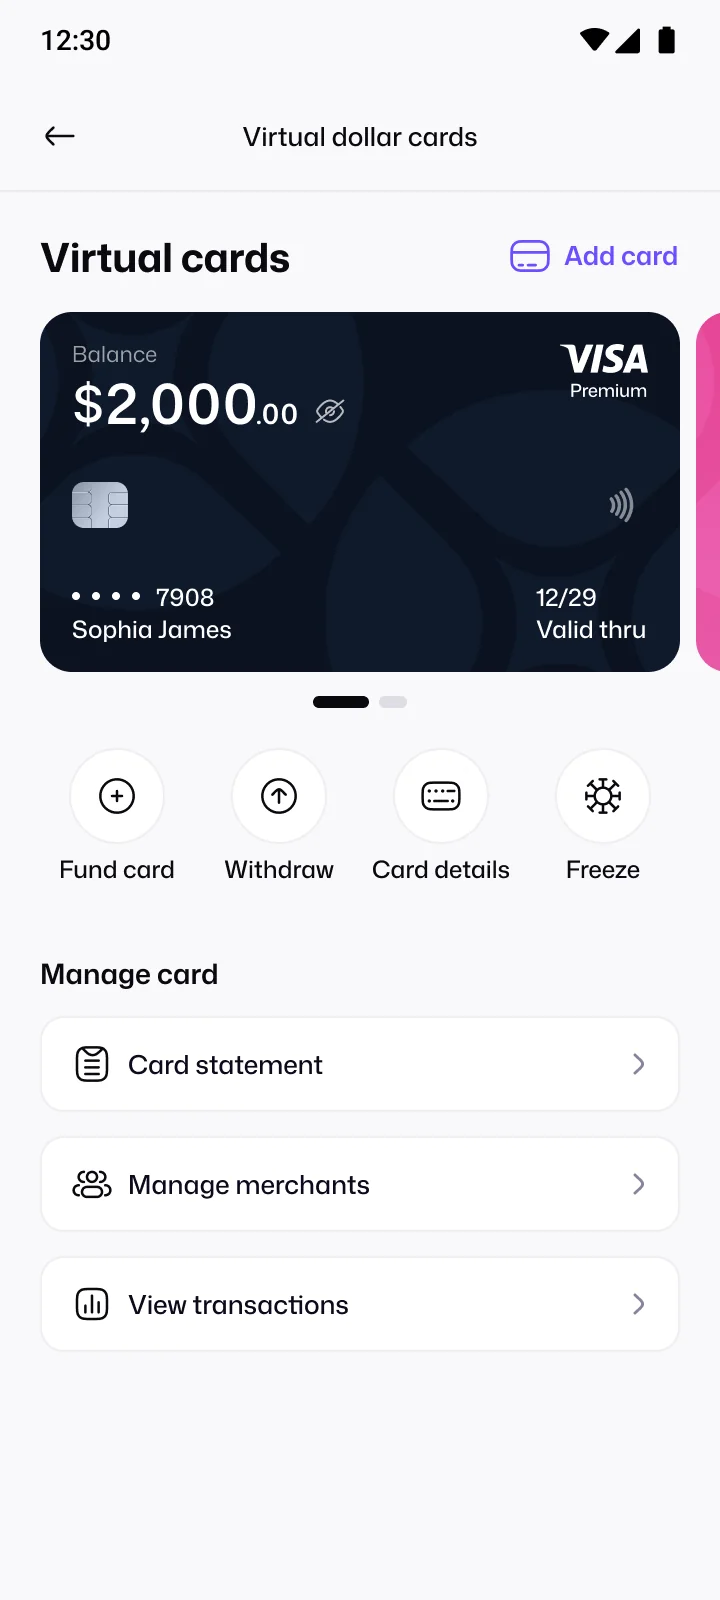
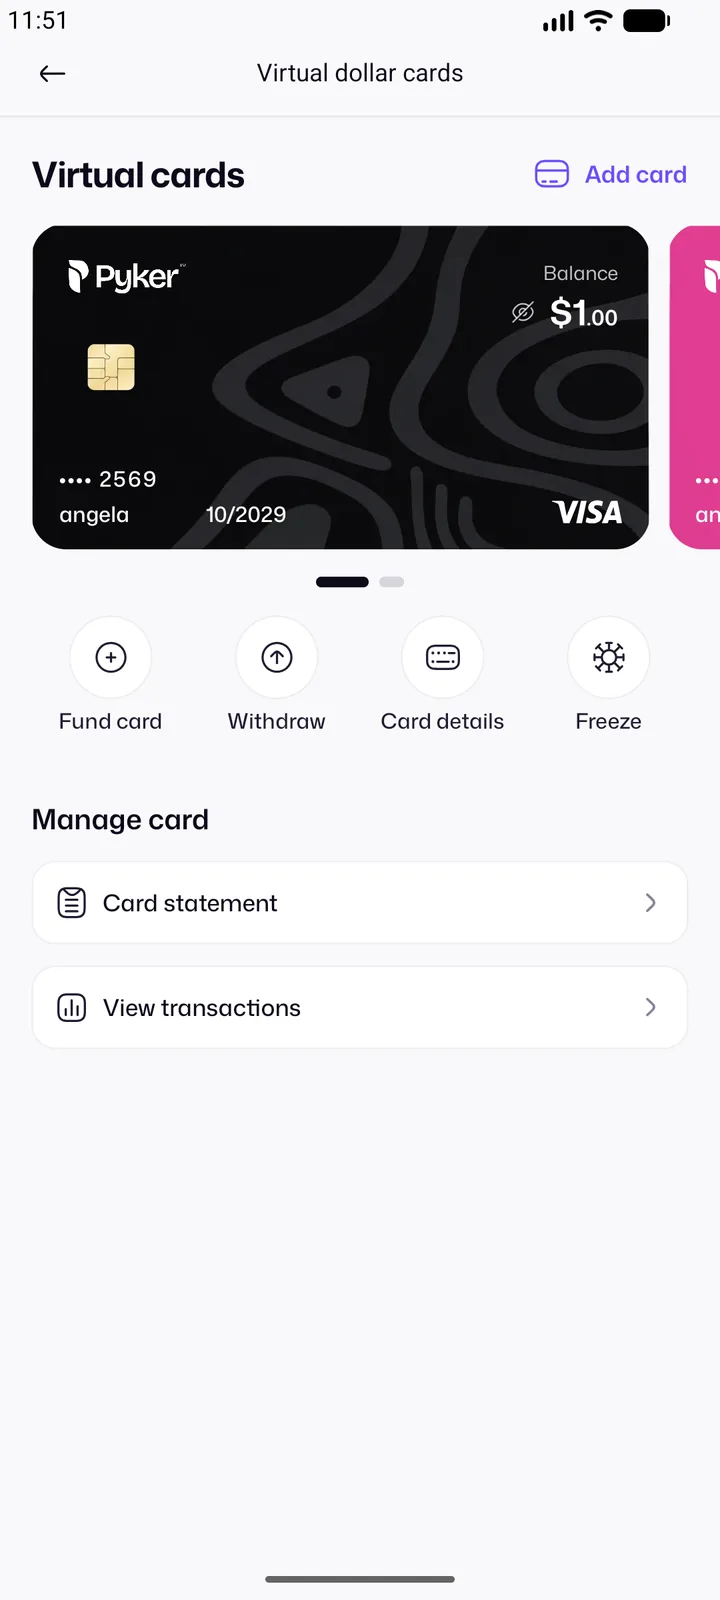
Show each card setup step with real app screens
Adds screens for card option, customise, fund, card details (number and
CVV masked), freeze and withdraw to the pay-for guides and blog posts,
replaces the outdated card screen, and uses the app's "creation fee"
wording. Fixes article overflow at phone width.

diff --git a/src/content/blog/virtual-dollar-card-guide.ts b/src/content/blog/virtual-dollar-card-guide.ts
@@ -11,7 +11,7 @@ export const virtualCardGuide: Post = {
   category: "Dollar card",
   tags: ["card"],
   published: "2026-10-18",
-  updated: "2026-10-18",
+  updated: "2026-10-31",
   cover: { kind: "art", src: "/art/cards.webp" },
   body: [
     {
@@ -38,7 +38,7 @@ export const virtualCardGuide: Post = {
       type: "table",
       head: ["What to check", "Why it matters"],
       rows: [
-        ["Issuance fee", "Some cards charge a one-time fee to create the card. Check it before you confirm."],
+        ["Creation fee", "Some cards charge a one-time fee to create the card. Check it before you confirm."],
         ["Funding options", "How easily can you load dollars? From naira, from crypto, or both?"],
         ["Visa or Mastercard", "Some merchants accept one network more readily, so having a choice helps."],
         ["Freeze and withdraw", "You should be able to freeze the card instantly and move unused funds back."],
@@ -48,7 +48,7 @@ export const virtualCardGuide: Post = {
     { type: "h2", text: "How the Pyker dollar card works" },
     {
       type: "p",
-      text: "With [Pyker's virtual dollar card](/virtual-dollar-card), you choose Visa or Mastercard and one of five colours, and the card is ready in about a minute. A one-time issuance fee is shown before you confirm.",
+      text: "With [Pyker's virtual dollar card](/virtual-dollar-card), you choose Visa or Mastercard and one of five colours, and the card is ready in about a minute. A one-time creation fee is shown before you confirm.",
     },
     {
       type: "ol",
@@ -68,8 +68,9 @@ export const virtualCardGuide: Post = {
     {
       type: "screens",
       items: [
-        { src: "/screens/home.webp", alt: "Pyker home screen with the Virtual card quick action", caption: "Tap Virtual card on the home screen to create your card." },
-        { src: "/screens/virtual-card.webp", alt: "Pyker virtual card screen with Fund card, Withdraw, Card details and Freeze", caption: "Fund, withdraw, view details or freeze your card in one place." },
+        { src: "/screens/card-option-standard.webp", alt: "Pyker Select card option screen with Standard and Lite cards", caption: "Pick Standard for everyday use, or Lite for a one-off card that expires on its own." },
+        { src: "/screens/card-customise-visa.webp", alt: "Pyker Customise your virtual card screen with colour and Visa or Mastercard options", caption: "Choose one of five colours, then Visa or Mastercard." },
+        { src: "/screens/card-details.webp", alt: "Pyker Card details screen with card number, CVV, expiry and billing address", caption: "Card details, shown after your PIN, with everything you need at checkout." },
       ],
     },
     { type: "h2", text: "Common uses" },
@@ -105,10 +106,22 @@ export const virtualCardGuide: Post = {
         "**Never share your CVV or PIN.** No genuine support team will ask for them.",
       ],
     },
+    {
+      type: "screens",
+      items: [
+        { src: "/screens/card-frozen.webp", alt: "Pyker virtual card marked Frozen, with an Unfreeze button", caption: "A frozen card declines every charge until you tap Unfreeze." },
+      ],
+    },
     { type: "h2", text: "What happens to money you don't spend" },
     {
       type: "p",
       text: "Your card balance stays yours. With Pyker, you can withdraw unused funds from your card back to your wallet at any time, so you're never stuck with dollars on a card you no longer need.",
+    },
+    {
+      type: "screens",
+      items: [
+        { src: "/screens/card-withdraw.webp", alt: "Pyker Withdraw screen with a choice of NGN wallet or USD wallet", caption: "Withdraw to your NGN or USD wallet. A small minimum balance keeps the card active." },
+      ],
     },
     {
       type: "cta",
@@ -130,7 +143,7 @@ export const virtualCardGuide: Post = {
     },
     {
       question: "How much does a Pyker dollar card cost?",
-      answer: "There's a one-time issuance fee when you create a card. The exact amount is shown in the app before you confirm.",
+      answer: "There's a one-time creation fee when you create a card. The exact amount is shown in the app before you confirm.",
     },
     {
       question: "Where can I use the Pyker dollar card?",

diff --git a/src/content/payFor.ts b/src/content/payFor.ts
@@ -1235,6 +1235,7 @@ export function findService(slug: string) {
 /** The full guide: what you need, the Pyker setup tailored to the service, then its own walkthrough. */
 export function serviceGuide(service: Service): Block[] {
   const { name } = service;
+  const network = service.card.network === "visa" ? "Visa" : "Mastercard";
   return [
     { type: "h2", text: "What you need" },
     {
@@ -1249,25 +1250,46 @@ export function serviceGuide(service: Service): Block[] {
     {
       type: "ol",
       items: [
-        "**Open Virtual card.** On the Pyker home screen, tap **Virtual card** and start a new card.",
+        "**Open Virtual card.** On the Pyker home screen, tap **Virtual card**. If you already have a card, tap **Add card**.",
         `**Choose ${service.cardType}.** Under **Select card option**, pick **${service.cardType}**. ${service.cardTypeReason}`,
         `**Pick a colour and network.** On **Customise your virtual card**, choose a colour, then Visa or Mastercard. ${name} accepts both.`,
-        `**Fund it from your wallet.** Choose **Wallet** as the funding source, enter an amount and confirm with your PIN. ${service.fundAdvice} The creation fee is shown before you confirm.`,
-        "**Open your card details.** Tap **Card details** and enter your PIN. You'll see the card number, CVV, expiry (**Valid till**), name on card and billing address.",
       ],
     },
     {
       type: "screens",
       items: [
         {
-          src: "/screens/home.webp",
-          alt: "Pyker home screen with the Virtual card quick action",
-          caption: "Start from Virtual card on the Pyker home screen.",
+          src: `/screens/card-option-${service.cardType.toLowerCase()}.webp`,
+          alt: `Pyker Select card option screen with ${service.cardType} selected`,
+          caption: `Pick ${service.cardType} under Select card option.`,
         },
         {
-          src: "/screens/virtual-card.webp",
-          alt: "Pyker virtual card screen with Fund card, Withdraw, Card details and Freeze",
-          caption: `Fund card tops it up. Card details shows what you'll enter on ${name}.`,
+          src: `/screens/card-customise-${service.card.network}.webp`,
+          alt: `Pyker Customise your virtual card screen with ${network} selected`,
+          caption: "Choose a colour, then Visa or Mastercard.",
+        },
+      ],
+    },
+    {
+      type: "ol",
+      start: 4,
+      items: [
+        `**Fund it from your wallet.** Choose **Wallet** as the funding source, enter an amount in USD and tap **Create virtual card**. ${service.fundAdvice} The creation fee is shown before you confirm.`,
+        "**Open your card details.** On your card, tap **Card details** and enter your PIN. You'll see the card number, CVV, expiry (**Valid till**), name on card and billing address.",
+      ],
+    },
+    {
+      type: "screens",
+      items: [
+        {
+          src: "/screens/card-create-fund.webp",
+          alt: "Pyker Fund card screen with Wallet as the funding source and a USD amount field",
+          caption: "Fund the card from your naira wallet in USD.",
+        },
+        {
+          src: "/screens/card-details.webp",
+          alt: "Pyker Card details screen with card number, CVV, expiry, name and billing address",
+          caption: `Everything ${name} asks for, with a copy button on each line.`,
         },
       ],
     },

diff --git a/src/content/blog/pay-for-chatgpt-in-nigeria.ts b/src/content/blog/pay-for-chatgpt-in-nigeria.ts
@@ -11,7 +11,7 @@ export const payForChatgpt: Post = {
   category: "Dollar card",
   tags: ["card"],
   published: "2026-10-18",
-  updated: "2026-10-18",
+  updated: "2026-10-31",
   cover: { kind: "card", color: "pink", network: "visa", tone: "lilac" },
   body: [
     {
@@ -53,7 +53,7 @@ export const payForChatgpt: Post = {
       type: "ol",
       items: [
         "**Download Pyker and verify your account.** Sign up, then verify your BVN in the app. It usually takes a few minutes.",
-        "**Create your virtual dollar card.** Choose Visa or Mastercard and pick a colour. A one-time issuance fee is shown before you confirm.",
+        "**Create your virtual dollar card.** Choose Visa or Mastercard and pick a colour. A one-time creation fee is shown before you confirm.",
         "**Fund your card.** Move money from your Pyker balance onto the card. You can top up your balance by bank transfer or by [selling crypto for naira](/sell-crypto).",
         "**Get your card details.** In the app, open your card and confirm your PIN to see the card number, expiry date and CVV.",
         "**Subscribe in ChatGPT.** Open ChatGPT, choose to upgrade to Plus, and enter your Pyker card details at checkout.",
@@ -67,7 +67,8 @@ export const payForChatgpt: Post = {
     {
       type: "screens",
       items: [
-        { src: "/screens/virtual-card.webp", alt: "Pyker virtual card screen with Fund card, Withdraw, Card details and Freeze", caption: "Tap Card details and enter your PIN to see the number, expiry and CVV for ChatGPT." },
+        { src: "/screens/card-fund.webp", alt: "Pyker Fund card screen with Wallet as the funding source and a USD amount field", caption: "Fund card moves dollars onto your card from your Pyker wallet." },
+        { src: "/screens/card-details.webp", alt: "Pyker Card details screen with card number, CVV, expiry and billing address", caption: "Card details, after your PIN, has everything ChatGPT's checkout asks for." },
       ],
     },
     { type: "h2", text: "If your payment is still declined" },

diff --git a/src/content/alternatives.ts b/src/content/alternatives.ts
@@ -546,7 +546,7 @@ const morePlatforms: Alternative[] = [
       { ...pykerSellRow, them: "Check the Bitnob app for its current selling options." },
       {
         label: "Dollar card",
-        pyker: "USD Visa or Mastercard, in five colours. A one-time issuance fee is shown before you confirm.",
+        pyker: "USD Visa or Mastercard, in five colours. A one-time creation fee is shown before you confirm.",
         them: "Offers a virtual dollar card. Check Bitnob for its current card fees.",
       },
     ],
@@ -767,7 +767,7 @@ const morePlatforms: Alternative[] = [
     ],
     switchSteps: [
       { title: "Verify your account", text: "Sign up in the Pyker app and verify your BVN." },
-      { title: "Create your card", text: "Choose Visa or Mastercard and a colour. The one-time issuance fee is shown before you confirm." },
+      { title: "Create your card", text: "Choose Visa or Mastercard and a colour. The one-time creation fee is shown before you confirm." },
       { title: "Fund it and pay", text: "Move money from your Pyker balance onto your card and use it anywhere online." },
     ],
     faq: [
@@ -873,12 +873,12 @@ export const PAYOUT_CHECKS = [
 ];
 
 // What to compare between dollar cards, for card-app alternative pages.
-// Pyker's side matches the app: issuance fee shown before you confirm, funded
+// Pyker's side matches the app: creation fee shown before you confirm, funded
 // from the Pyker balance, Visa or Mastercard, freeze/withdraw, PIN-gated details.
 export const CARD_CHECKS = [
   {
     title: "Issuance and funding fees",
-    text: "Check what it costs to create and top up a card. Pyker's one-time issuance fee is shown before you confirm.",
+    text: "Check what it costs to create and top up a card. Pyker's one-time creation fee is shown before you confirm.",
   },
   {
     title: "How you fund it",

diff --git a/src/content/blog/convert-bitcoin-to-naira.ts b/src/content/blog/convert-bitcoin-to-naira.ts
@@ -11,7 +11,7 @@ export const bitcoinToNaira: Post = {
   category: "Selling crypto",
   tags: ["bitcoin", "sell"],
   published: "2026-10-18",
-  updated: "2026-10-18",
+  updated: "2026-10-31",
   cover: { kind: "coins", ids: ["bitcoin"], tone: "ink" },
   body: [
     {
@@ -59,6 +59,7 @@ export const bitcoinToNaira: Post = {
     {
       type: "screens",
       items: [
+        { src: "/screens/sell-assets.webp", alt: "Pyker Sell Crypto screen listing the coins you can sell, including USDT on six networks", caption: "Tap Sell Crypto, then pick BTC from the list." },
         { src: "/screens/sell-address.webp", alt: "Pyker deposit address screen with NGN or USD wallet choice and a QR code", caption: "Your Bitcoin deposit address. Choose NGN or USD wallet, then copy or scan it." },
         { src: "/screens/sell-success.webp", alt: "Pyker sale tracker showing payment detected, validating and funds credited", caption: "Follow your sale from payment detected to funds credited." },
       ],

diff --git a/src/content/blog/sell-usdt-in-nigeria.ts b/src/content/blog/sell-usdt-in-nigeria.ts
@@ -11,7 +11,7 @@ export const sellUsdt: Post = {
   category: "Selling crypto",
   tags: ["usdt", "sell"],
   published: "2026-10-18",
-  updated: "2026-10-18",
+  updated: "2026-10-31",
   cover: { kind: "coins", ids: ["tether"], tone: "lime" },
   body: [
     {
@@ -65,6 +65,7 @@ export const sellUsdt: Post = {
     {
       type: "screens",
       items: [
+        { src: "/screens/sell-assets.webp", alt: "Pyker Sell Crypto screen listing the coins you can sell, including USDT on six networks", caption: "Pick USDT, then choose the network you're sending on." },
         { src: "/screens/sell-address.webp", alt: "Pyker deposit address screen with NGN or USD wallet choice and a QR code", caption: "The deposit address screen (shown here for Bitcoin). For USDT, you pick your network first." },
         { src: "/screens/sell-success.webp", alt: "Pyker sale tracker showing payment detected, validating and funds credited", caption: "Track your sale until your wallet is credited." },
       ],

diff --git a/src/content/card.ts b/src/content/card.ts
@@ -12,7 +12,7 @@ export const CARD = {
     },
     {
       title: "Create your card",
-      text: "Choose Visa or Mastercard and pick a colour. A one-time issuance fee is shown before you confirm.",
+      text: "Choose Visa or Mastercard and pick a colour. A one-time creation fee is shown before you confirm.",
     },
     {
       title: "Fund it and spend",
@@ -34,7 +34,7 @@ export const CARD = {
     {
       question: "How much does the card cost?",
       answer:
-        "There's a one-time issuance fee when you create a card. The exact amount is shown in the app before you confirm.",
+        "There's a one-time creation fee when you create a card. The exact amount is shown in the app before you confirm.",
     },
     {
       question: "Can I use it for Apple, Google, Netflix, Udemy or Claude?",

diff --git a/src/components/blog/Blog.module.css b/src/components/blog/Blog.module.css
@@ -429,7 +429,7 @@
   }
 
   .layout {
-    grid-template-columns: 1fr;
+    grid-template-columns: minmax(0, 1fr);
   }
 
   .toc {
@@ -476,4 +476,26 @@
   line-height: 1.5;
   text-align: center;
   color: var(--color-grey-05);
+}
+
+/* Two phones per row on small screens, so a set of screens isn't a long stack */
+@media (max-width: 560px) {
+  .screens {
+    display: grid;
+    grid-template-columns: repeat(2, minmax(0, 1fr));
+    justify-items: center;
+    gap: 24px 12px;
+    padding: 24px 12px;
+  }
+
+  .screens figure {
+    width: 100%;
+    max-width: 200px;
+  }
+
+  /* An odd last screen sits centred under the pair */
+  .screens figure:last-child:nth-child(odd) {
+    grid-column: 1 / -1;
+    width: calc(50% - 6px);
+  }
 }

diff --git a/src/content/home.ts b/src/content/home.ts
@@ -25,7 +25,7 @@ export const HOME_FAQ: FaqItem[] = [
   {
     question: "What is the Pyker virtual card?",
     answer:
-      "A USD Visa or Mastercard virtual card you fund from your Pyker balance. Use it for subscriptions, software and online shopping, no domiciliary account needed. A one-time issuance fee is shown before you confirm.",
+      "A USD Visa or Mastercard virtual card you fund from your Pyker balance. Use it for subscriptions, software and online shopping, no domiciliary account needed. A one-time creation fee is shown before you confirm.",
   },
   {
     question: "Can I withdraw naira to my bank account?",

diff --git a/src/components/blog/Article.tsx b/src/components/blog/Article.tsx
@@ -28,8 +28,10 @@ function BlockView({ block }: { block: Block }) {
     case "ul":
     case "ol": {
       const List = block.type;
+      // The numbers are a CSS counter, so `start` has to set the counter too.
+      const start = block.type === "ol" ? block.start : undefined;
       return (
-        <List>
+        <List start={start} style={start ? { counterReset: `step ${start - 1}` } : undefined}>
           {block.items.map((item) => (
             <li key={item}>
               <Rich text={item} />

diff --git a/src/content/blog/types.ts b/src/content/blog/types.ts
@@ -7,7 +7,8 @@ export type Block =
   | { type: "h2"; text: string }
   | { type: "h3"; text: string }
   | { type: "ul"; items: string[] }
-  | { type: "ol"; items: string[] }
+  /** `start` continues the numbering of an earlier list, e.g. after screenshots. */
+  | { type: "ol"; items: string[]; start?: number }
   | { type: "tip"; title: string; text: string }
   | { type: "table"; head: string[]; rows: string[][] }
   | { type: "cta"; title: string; text: string; to: string; label: string }
